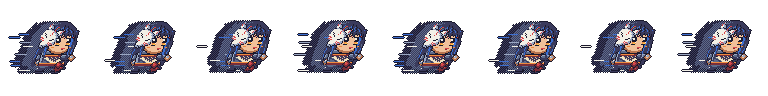
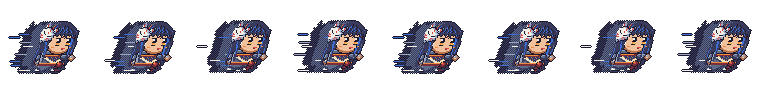
Shade: smaller back-of-head mask clear of her eyes, tidy obi knot, low-contrast fishnet, longer skirt
Claude-Session: https://claude.ai/code/session_01J8LgTLVYzThXjNSRVhWqep

diff --git a/tools/sprites/generate.py b/tools/sprites/generate.py
@@ -281,7 +281,7 @@ def sh_lock(c, pts, widths, clusters=((0.28, BLUE),), color=SH_HAIR, rim=True, l
         c.flat(L(sh_ipts(sh_lerp(outer, inner, f)[3 + i:n - 3 - 2 * i]), 1), col)
 
 
-def sh_fox_mask(c, cx, cy, deg=30, k=1.25):
+def sh_fox_mask(c, cx, cy, deg=30, k=1.0):
     """A festival fox mask pushed up and askew on the back (left) side of her face, drawn tilted `deg` degrees clockwise
     directly from rotated vertices (no pixel rotation), so the outline stays crisp and the markings stay symmetric about
     the tilted axis: ears with red tips, slanted eye slits, whiskers, forehead mark, nose, and a tie cord tucked into her hair."""
@@ -324,16 +324,12 @@ def flicker(step=None, t=0, zip_=False):
     up = ShCanvas()
     # ---- legs: dark leggings with a dithered fishnet strip, bandage wraps with diagonal lines, split-toe tabi, thigh holster
     for x, dy in legs(low, SHADOW, SHADOW, step):
-        for yy in (50 + dy, 51 + dy):
-            for xx in range(x, x + 6):
-                if (xx + yy) % 2 == 0:
-                    low.dot(xx, yy, STEEL_D)
-        low.flat(R((x, 52 + dy, x + 5, 53 + dy)), STEEL)
-        low.flat(R((x, 53 + dy, x + 5, 53 + dy)), STEEL_D)
-        low.flat(L([(x, 53 + dy), (x + 5, 52 + dy)], 1), WHITE)  # wrap line
-        low.dot(x, 52 + dy, WHITE)
-        low.flat(L([(x + 6, 55 + dy), (x + 6, 56 + dy)], 1), OUTLINE)  # tabi split toe
-        low.dot(x, 54 + dy, STEEL_D)
+        low.flat(L([(x, 47 + dy), (x, 52 + dy)], 1), STEEL_D)  # lit left edge of the legging
+        low.flat(R((x - 1, 54 + dy, x + 6, 55 + dy)), STEEL)  # bandage wraps round the ankles, over the tabi
+        low.flat(R((x - 1, 55 + dy, x + 6, 55 + dy)), STEEL_D)
+        low.flat(L([(x - 1, 55 + dy), (x + 6, 54 + dy)], 1), WHITE)  # wrap line
+        low.dot(x, 54 + dy, WHITE)
+        low.flat(L([(x + 6, 56 + dy), (x + 7, 56 + dy)], 1), OUTLINE)  # tabi split toe
     low.part(P([(39, 50), (43, 51), (43, 55), (40, 56), (39, 54)]), BROWN)  # dark-brown pouch and one kunai ring
     low.flat(L([(39, 51), (43, 52)], 1), SHADOW)
     low.flat(L([(43, 52), (46, 51)], 2), STEEL_D)
@@ -364,20 +360,19 @@ def flicker(step=None, t=0, zip_=False):
     arm(up, ARM_X[0], SH_KIM, SKIN)
     tekko(ARM_X[0])
     # ---- wrap top over a short flared skirt (same colour, darker underside); split flaps
-    flare = [(20, 47), (44, 47), (46, 49.5), (42, 51.5 + sh_sw(t, 1.0, 1)), (37, 50.5), (33, 48.5), (29, 50.5), (24, 51.5 - sh_sw(t, 0.5, 1)), (19, 49.5)]
+    flare = [(20, 47), (44, 47), (46, 50), (42, 53 + sh_sw(t, 1.0, 1)), (37, 51.5), (33, 49.5), (29, 51.5), (24, 53 - sh_sw(t, 0.5, 1)), (19, 50)]
     up.part(lambda d, f: (d.rounded_rectangle((20, 33, 44, 48), 3, f), d.polygon(flare, f)), SH_KIM)
-    up.flat(R((20, 50, 46, 50)), SHADOW)
-    up.dither(R((36, 38, 45, 51)), SHADOW, only_on=SH_KIM)
+    up.dither(R((36, 38, 45, 54)), SHADOW, only_on=SH_KIM)
     up.flat(L([(21, 38), (21, 46)], 1), STEEL)
-    up.flat(L([(33, 48), (33, 51)], 1), SHADOW)  # skirt split
+    up.flat(L([(33, 49), (33, 51)], 1), SHADOW)  # skirt split
     up.part(RR((22, 37, 43, 38), 1), RED)  # slim neck scarf under her chin
     up.flat(L([(24, 37), (36, 37)], 1), ORANGE)
     # fishnet undershirt in a deep V: a dark base with a regular staggered lattice of skin dots, to the sternum above the obi
-    up.part(P([(24, 39), (44, 39), (34, 45)]), SHADOW, shade=False, line=False)
+    up.part(P([(25, 39), (43, 39), (34, 45)]), NAVY, shade=False, line=False)
     for yy in range(39, 46):
         for xx in range(23, 46):
-            if up.at(xx, yy)[:3] == SHADOW and (xx + 2 * (yy % 2)) % 4 == 0:
-                up.dot(xx, yy, SKIN)
+            if up.at(xx, yy)[:3] == NAVY and (xx + 2 * (yy % 2)) % 4 == 0:
+                up.dot(xx, yy, SKIN_D)
     up.flat(L([(24, 39), (34, 45)], 2), CREAM)  # two bold 2 px cream lapels from the shoulders
     up.flat(L([(44, 39), (34, 45)], 2), CREAM)
     up.flat(L([(23, 41), (33, 46)], 1), SHADOW)  # shadow under the lapels
@@ -385,10 +380,10 @@ def flicker(step=None, t=0, zip_=False):
     up.part(R((20, 45, 44, 47)), RED, line=False)  # red obi: a bold 3 px band with a lit top row, a knot, two hanging ends
     up.flat(R((20, 45, 44, 45)), ORANGE)
     up.flat(R((20, 47, 44, 47)), MAROON)
-    up.part(P([(38, 48), (36, 52.5 + bw), (39, 51.5 + bw), (40, 48)]), RED)
-    up.part(P([(40, 48), (42, 52.5 + bw), (44, 50.5 + bw), (42, 48)]), RED)
-    up.part(E((37, 44, 42, 49)), RED)
-    up.dot(38, 45, ORANGE)
+    up.part(P([(38, 48), (36.5, 50.5 + bw), (39, 50 + bw)]), RED)
+    up.part(P([(40, 48), (42.5, 50.5 + bw), (42, 48.5)]), RED)
+    up.part(E((38, 44, 42, 48)), RED)
+    up.dot(39, 45, ORANGE)
     if zip_:  # Grapple Kunai: the front arm reaches forward along the chain (hair streams back: flicker_zip)
         up.part(RR((40, 37, 50, 41), 2), SH_KIM)
         up.flat(L([(44, 38), (44, 40)], 1), SHADOW)  # forearm wrap
@@ -419,7 +414,7 @@ def flicker(step=None, t=0, zip_=False):
         up.flat(L(sh_ipts([(at(0.1)[0] - 1.5, at(0.1)[1]), (at(f * 0.75)[0] - 1.5, at(f * 0.75)[1])]), 1), BLUE)  # staggered lit streak
     up.flat(lambda d, f: d.arc((22, 6, 44, 30), 212, 236, f), BLUE)  # two short curved crown streaks, not rings
     up.flat(lambda d, f: d.arc((26, 9, 44, 27), 232, 252, f), STEEL_D)
-    sh_fox_mask(up, 22, 19, 30)  # the mask rides the back of her head, tilted down-left
+    sh_fox_mask(up, 19, 16, 30)  # the mask rides the back of her head, tilted down-left, clear of her eye
     # eyes: orange iris with a bright lower rim, a heavy top lid and a lash flick with a red tip; crimson lips
     big_eyes(up, EYES_Y - 1, EYES_X, ORANGE, h=6)
     if not KO:
